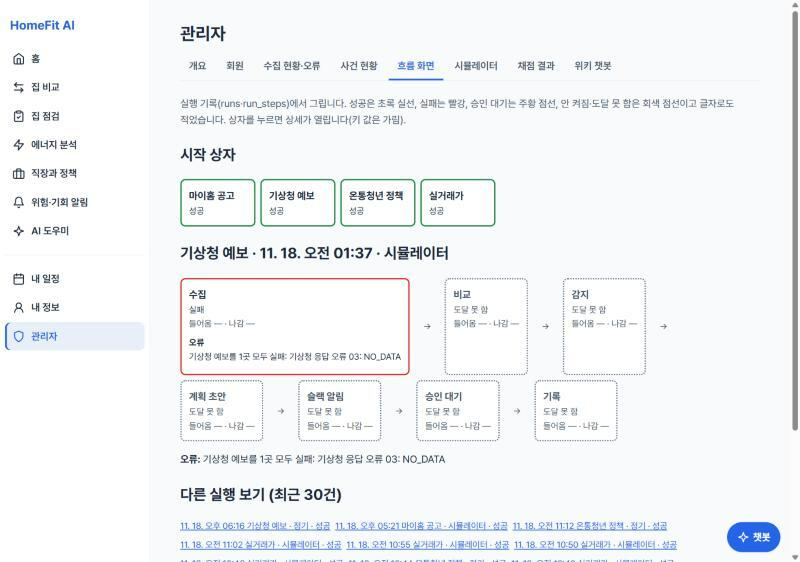
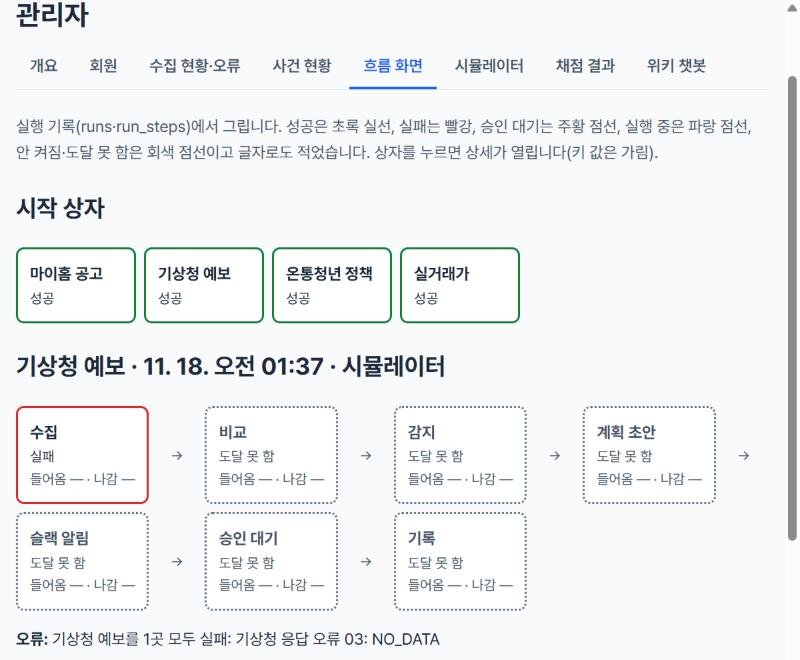
docs: 흐름 화면 캡처 4장을 운영 화면으로 다시 찍고 flow.md v0.3 (조각 C1, P3-08)
- 캡처 4장(성공·승인 대기·실패·상세)을 2026-11-19 운영에서 같은 실행 기록으로 다시 찍음. 상세가 한국어로 보임(PR #16)
- flow.md: 기준일·5절·5.4·5.5·7절을 새 캡처에 맞춤

diff --git a/docs/flow.md b/docs/flow.md
@@ -1,8 +1,8 @@
 # 흐름 화면
 
-- 상태: **초안 v0.2** (글과 화면 캡처 4장. 안내서와 다른 점은 팀 결정 대기, 6절)
+- 상태: **초안 v0.3** (글과 화면 캡처 4장. 캡처는 2026-11-19 운영에서 다시 찍음. 안내서와 다른 점은 팀 결정 대기, 6절)
 - 출처: 안내서 2절 "흐름 화면"·12절 제출 목록, 평가항목 P3-08, `docs/specs/005-관리자-시연-기록찾기/spec.md` FR-003
-- 기준일: 2026-11-19 (main `1ec8b1f`, PR #16까지. 캡처 4장은 2026-11-18 PR #16 전 화면). 이 문서는 **코드와 캡처에서 확인한 것만** 적는다. 화면을 직접 눌러 본 것은 아니다(관리자 계정 없음).
+- 기준일: 2026-11-19 (글은 main `1ec8b1f`·PR #16까지, 캡처는 운영 화면 2026-11-19 저녁). 이 문서는 **코드와 캡처에서 확인한 것만** 적는다. 화면은 5절 네 장면을 운영에서 관리자 가상 계정으로 열어 보고 감지 상자 하나를 눌러 본 것까지다.
 - 코드 위치: 흐름 정의·해석 `flow/graph.ts`, 화면 `app/(main)/admin/flow/`, 실행 기록 쓰기 `watch/run-log.server.ts`, 수집 `watch/collect*.server.ts`
 
 ## 1. 한눈에
@@ -126,7 +126,7 @@
 읽기에 실패하면 "변화 없음"이 아니라 수집 오류로 남는다. 일부러 실패시켜 보려면 시뮬레이터에서 `failure`나 `malformed` 묶음을 돌린다(`docs/demo-order.md` 장면 5).
 
 ## 5. 화면 캡처
-예림님이 관리자 계정으로 운영 화면에서 찍었다(2026-11-18). 키, 이메일, 실제 계정 정보는 보이지 않는다.
+선우가 관리자 가상 계정으로 운영 화면에서 다시 찍었다(2026-11-19, 화면 폭 800픽셀). 처음 캡처(2026-11-18, 예림님)와 **같은 실행 기록**을 골랐고, 시뮬레이터를 새로 돌리지 않아 운영 DB에 새 기록은 생기지 않았다. 키, 이메일, 실제 계정 정보는 보이지 않는다.
 
 ### 5.1 성공한 실행 (정기 실행)
 ![기상청 예보 정기 실행이 성공한 흐름 화면](img/flow/flow-success.png)
@@ -146,12 +146,12 @@
 ### 5.4 상자를 펼친 상세
 ![감지 상자를 펼쳐 변화 종류별 수가 보이는 흐름 화면](img/flow/flow-detail.png)
 
-5.2와 같은 실행에서 감지 상자를 펼쳤다. 상세에 변화 종류별 수(`changed` 3, `relaxed` 0, `correction` 0)가 보인다.
+5.2와 같은 실행에서 감지 상자를 펼쳤다. 상세에 **"바뀐 공고 종류: 바뀜 3 · 완화·재공고 0 · 정정공고 0"**이 한국어로 보인다. 처음 캡처(PR #16 전)에는 `changes`, `{"changed":3,"relaxed":0,"correction":0}`처럼 영어·JSON 그대로였다. PR #16에서 이름표(`flow/graph.ts`의 `DETAIL_LABEL`)와 묶음 값 풀어 쓰기를 더한 결과다.
 
 ### 5.5 캡처에서 보이는 점
-- 5.4 캡처에는 상세 항목 이름이 `changes`, 값이 `{"changed":3,"relaxed":0,"correction":0}`으로 영어·JSON 그대로 보인다. **PR #16에서 고쳐졌다**: 이름표(`flow/graph.ts`의 `DETAIL_LABEL`)에 `changes` 등 12개를 더하고 묶음 값을 "바뀐 공고 종류: 바뀜 3 · …"처럼 한국어로 풀어 보여 준다. 캡처는 고치기 전 화면이라, 발표에 쓰려면 다시 찍어야 한다. 고친 뒤 화면은 직접 보지 못했다(코드와 `tests/flow-graph.test.ts`로 확인).
+- 화면 폭 800픽셀에서는 단계 상자가 한 줄에 4개씩 두 줄로 놓인다. 넓은 화면에서는 한 줄에 더 많이 놓인다.
+- 상태별 선 모양을 화면에서 확인했다: 성공은 초록 실선, 실패는 빨강, 승인 대기는 주황 점선, 건너뜀은 회색 실선, 도달 못 함은 회색 점선. 오른쪽 아래 "챗봇" 단추가 상자를 가리지 않게 화면을 조금 내려서 찍었다.
 - 키 값이 가려진 상세(`***`)가 보이는 캡처는 아직 없다. 가림은 코드(3.5절)와 qa 005 C-504로만 확인된다.
-- 받은 파일은 800×562 크기다. 글자가 작으니 원본 크기 파일이 있으면 바꾼다.
 
 ## 6. 안내서 기준과 다른 점 (팀이 정해 주세요)
 코드를 안내서 2절과 맞춰 본 결과 8곳이다. 틀렸다는 뜻이 아니라, 발표에서 질문이 나올 수 있는 곳이다.
@@ -170,6 +170,6 @@
 | 8 | (문서 사이) | spec 005 FR-003은 "시작 상자 3종"인데 코드는 4종(온통청년 포함) | spec 쪽을 맞추면 됨 |
 
 ## 7. 이 문서에서 확인하지 못한 것
-- 화면은 5절 캡처 4장으로만 확인했다(성공, 승인 대기, 실패, 상세). 2.3절의 상태 표시와 4절의 수집 실패 모습은 캡처와 맞았다. 그 밖의 경우(일부 시군구 실패, 슬랙 알림 실패, 중간 단계 실패, 4절 아래 "알아 둘 점" 세 가지)는 코드로만 읽었다.
+- 화면은 5절 네 장면(성공, 승인 대기, 실패, 상세)만 운영에서 직접 열어 봤다(2026-11-19). 2.3절의 상태 표시와 4절의 수집 실패 모습은 화면과 맞았다. 그 밖의 경우(일부 시군구 실패, 슬랙 알림 실패, 중간 단계 실패, 4절 아래 "알아 둘 점" 세 가지)는 코드로만 읽었다.
 - 승인·거절 뒤 흐름 화면이 어떻게 보이는지(6절 3번은 코드에서 "실행 기록을 고치는 곳이 없다"는 것으로 판단).
-- 색과 선 모양은 `flow.module.css`의 테두리 규칙(실선·점선)을 읽고 적었다. 실제 색이 어떻게 보이는지는 화면에서 확인하지 못했다.
+- 색과 선 모양은 성공·실패·승인 대기·건너뜀·도달 못 함을 화면에서 확인했다(5.5절). "실행 중"(파랑 점선)과 "아직 안 켜짐"은 그 시각에 해당하는 실행이 없어 화면에서 보지 못했다.
